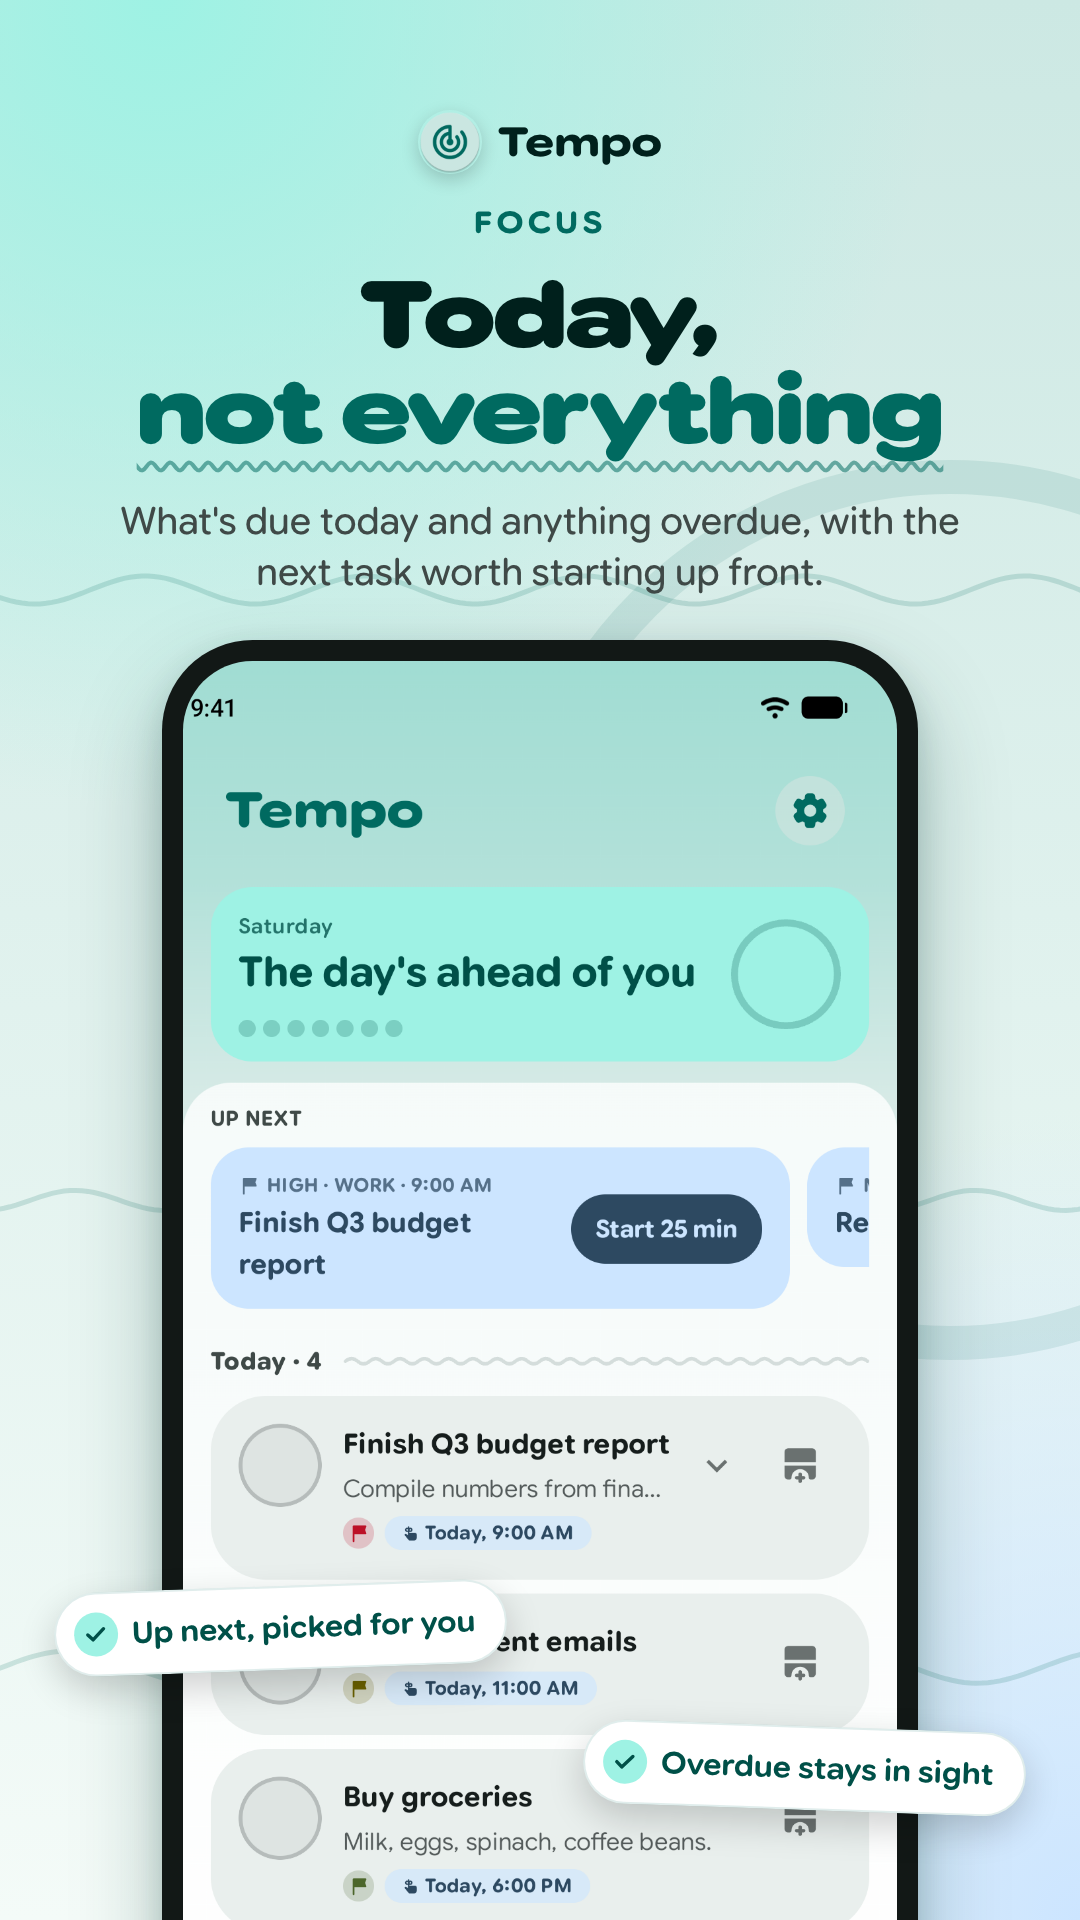
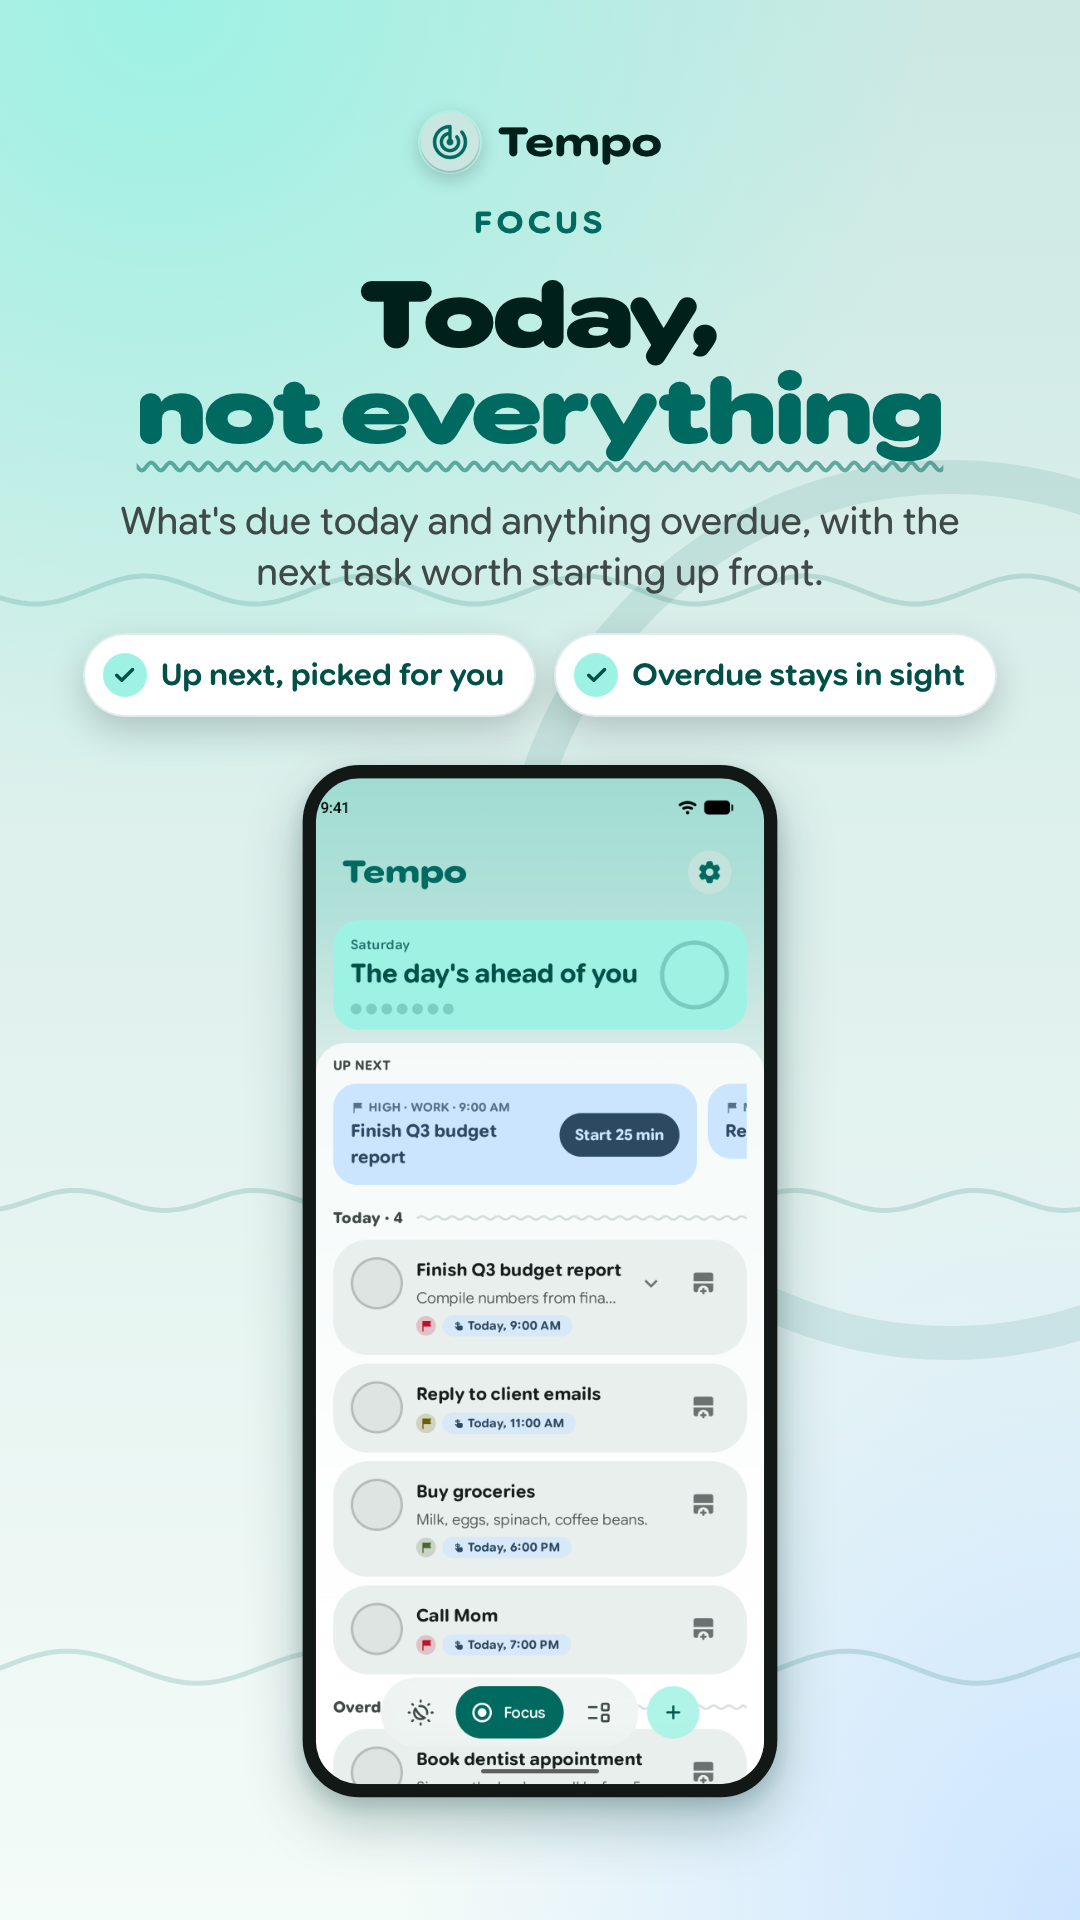
chore: keep listing chips off the focus session sheet
The session sheet now sits at the bottom of the screen, where the
floating chips on portrait slides covered it and its buttons were
cropped off. Portrait slides now put the chips in a row under the text,
like the privacy slide, and fit the whole device below them.

diff --git a/scripts/compose-store-screenshots.py b/scripts/compose-store-screenshots.py
@@ -165,16 +165,16 @@ def wave_path(width, amplitude, wavelength, phase=0.0):
     return "M" + " L".join(pts)
 
 
-def device_html(kind, img_uri, width, extra_style=""):
+def device_html(kind, img_uri, width, extra_style="", cls=""):
     """A device frame `width` CSS px wide around one raw capture."""
     if kind == "phone":
         bezel, radius = width * 0.028, width * 0.12
-        return (f'<div class="dev" style="width:{width}px;padding:{bezel}px;border-radius:{radius}px;'
+        return (f'<div class="dev {cls}" style="width:{width}px;padding:{bezel}px;border-radius:{radius}px;'
                 f'background:#121816;{extra_style}"><img src="{img_uri}" '
                 f'style="border-radius:{radius - bezel}px"></div>')
     if kind == "tablet":
         bezel, radius = width * 0.022, width * 0.05
-        return (f'<div class="dev" style="width:{width}px;padding:{bezel}px;border-radius:{radius}px;'
+        return (f'<div class="dev {cls}" style="width:{width}px;padding:{bezel}px;border-radius:{radius}px;'
                 f'background:#121816;{extra_style}"><img src="{img_uri}" '
                 f'style="border-radius:{radius - bezel}px"></div>')
     if kind == "monitor":
@@ -239,17 +239,16 @@ def build_page(ff, locale, idx, raw_paths):
             )
             chip_block = f'<div class="chipgrid" style="top:{top - 40 * u}px">{chips_html(copy["chips"])}</div>'
         else:
+            # The chips sit in a row under the text, as on the privacy slide, and
+            # never over the screen: the Focus session sheet lives at the bottom
+            # of the screen, where floating call-outs would cover it. The device
+            # goes below them and shrinks until the whole screen fits (see
+            # FIT_SCRIPT), since the sheet's buttons are at the very bottom.
             devices = device_html(kind, uris[0], dev_w,
-                                  f"position:absolute;left:{(W - dev_w) / 2}px;top:{top}px")
-            # Chips float over the lower part of the device, staggered so they read
-            # as call-outs. Low down because that is where every capture has the
-            # least to say — the top of each screen is the part worth seeing.
-            # A tablet's taller screen leaves more empty room at the bottom, so its
-            # chips can sit lower still.
-            low, high = (110, 250) if kind == "phone" else (60, 190)
-            c1 = f"position:absolute;left:{W * 0.05}px;bottom:{high * u}px;transform:rotate(-2deg)"
-            c2 = f"position:absolute;right:{W * 0.05}px;bottom:{low * u}px;transform:rotate(2deg)"
-            chip_block = chips_html(copy["chips"], "float", [c1, c2])
+                                  f"position:absolute;left:{(W - dev_w) / 2}px;top:{top}px;"
+                                  f"transform-origin:top center",
+                                  "fit")
+            chip_block = ""
         text_style = f"left:{70 * u}px;right:{70 * u}px;top:{110 * u}px;text-align:center;align-items:center"
     else:
         text_w = 1100 * u
@@ -283,7 +282,12 @@ def build_page(ff, locale, idx, raw_paths):
         text_style = (f"left:{130 * u}px;width:{text_w - 130 * u}px;top:0;bottom:0;"
                       f"justify-content:center;align-items:flex-start;text-align:left")
 
-    chips_inline = "" if portrait else f'<div class="chiplist">{chips_html(copy["chips"])}</div>'
+    if not portrait:
+        chips_inline = f'<div class="chiplist">{chips_html(copy["chips"])}</div>'
+    elif is_duo:
+        chips_inline = ""  # the duo's chip grid sits between the text and the pair
+    else:
+        chips_inline = f'<div class="chiprow">{chips_html(copy["chips"])}</div>'
     brand = ""
     if idx == 0:
         brand = (f'<div class="brand"><img src="{ICON.as_uri()}"><span>Tempo</span></div>')
@@ -332,6 +336,7 @@ p.body {{ font-size: {body_size}px; line-height: 1.32; color: {t['body']}; max-w
   display: inline-flex; align-items: center; justify-content: center; flex: none; }}
 .chip .dot svg {{ width: 62%; height: 62%; }}
 .chiplist {{ display: flex; flex-direction: column; align-items: flex-start; gap: {18 * u}px; margin-top: {22 * u}px; }}
+.chiprow {{ display: flex; flex-wrap: wrap; justify-content: center; gap: {18 * u}px; margin-top: {10 * u}px; }}
 .chipgrid {{ position: absolute; left: 0; right: 0; display: flex; flex-wrap: wrap; justify-content: center;
   gap: {18 * u}px; padding: 0 {60 * u}px; z-index: 6; }}
 </style></head><body>
@@ -347,7 +352,25 @@ p.body {{ font-size: {body_size}px; line-height: 1.32; color: {t['body']}; max-w
 </div>
 {devices}
 {chip_block}
+<script>{FIT_SCRIPT % {"gap": 48 * u, "margin": 36 * u}}</script>
 </body></html>"""
+
+
+# Portrait single-device slides: once the font has loaded and the text block has
+# its real height, drop the device just below it and scale it down until its
+# whole screen fits above the bottom margin. Runs inside headless Chrome; the
+# --virtual-time-budget in render() gives the promise time to settle.
+FIT_SCRIPT = """
+document.fonts.ready.then(function () {
+  var dev = document.querySelector('.dev.fit');
+  if (!dev) return;
+  var top = document.querySelector('.text').getBoundingClientRect().bottom + %(gap)f;
+  var avail = window.innerHeight - %(margin)f - top;
+  var scale = Math.min(1, avail / dev.offsetHeight);
+  dev.style.top = top + 'px';
+  dev.style.transform = 'scale(' + scale + ')';
+});
+"""
 
 
 def render(chrome, html_path, png_path, size):

diff --git a/distribution/screenshots/README.md b/distribution/screenshots/README.md
@@ -360,11 +360,15 @@ wide, heavy for headlines) and the Tempo palette from `Color.kt`.
 
 | Form factor | Canvas | Frame |
 |---|---|---|
-| Phone | 1080×1920 (9:16) | phone, chips over its lower half |
-| Medium tablet | 1440×2560 (9:16) | tablet, portrait |
+| Phone | 1080×1920 (9:16) | phone, whole screen, chips in a row above it |
+| Medium tablet | 1440×2560 (9:16) | tablet, portrait, same as phone |
 | Expanded tablet | 2560×1440 (16:9) | tablet, text column on the left |
 | Desktop | 2560×1440 (16:9) | monitor on a stand |
 | XR | 2560×1440 (16:9) | the 2558×1439 crop, bezel-less with a glow, like a panel in space |
+
+No chip sits over a screen. In portrait the chips go in a row under the text and
+the device is scaled to fit whole below them, because the Focus session sheet
+lives at the bottom of the screen with its buttons on the last rows.
 
 The five images tell the raw set's story and add a closer:
 
